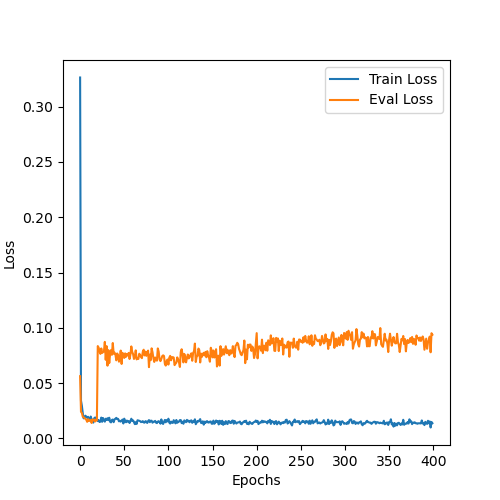
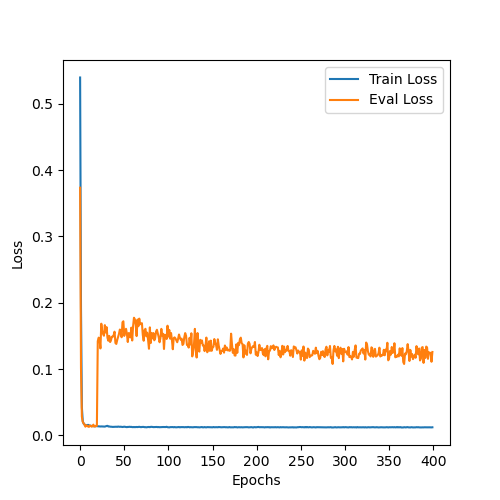
model 8 br log global bound

diff --git a/brown_resnick/sde_diffusion/masked/unparameterized/train.py b/brown_resnick/sde_diffusion/masked/unparameterized/train.py
@@ -290,13 +290,13 @@ veconfig = ve_ncsnpp_config
 data_draws = 20
 epochs_per_drawn_data = 20
 random_missingness_percentages = [0,.5]
-number_of_random_replicates = 100
+number_of_random_replicates = 5000
 number_of_eval_random_replicates = 250
 seed_values = [(int(np.random.randint(0, 100000)),int(np.random.randint(0, 100000)))
                 for i in range(0, data_draws)]
 range_value = 1.6
 smooth_value = 1.6
-batch_size = 4
+batch_size = 512
 eval_batch_size = 250
 score_model_path = "trained_score_models/vpsde/model8_beta_min_max_01_20_1000_1.6_1.6_random050_logglobalbound_masks.pth"
 loss_path = "trained_score_models/vpsde/model8_beta_min_max_01_20_1000_1.6_1.6_random050_logglobalbound_masks_loss.png"
